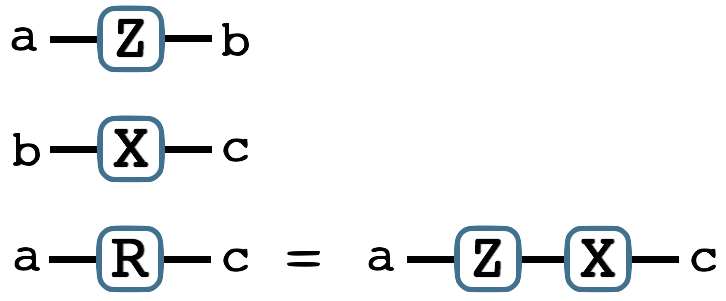
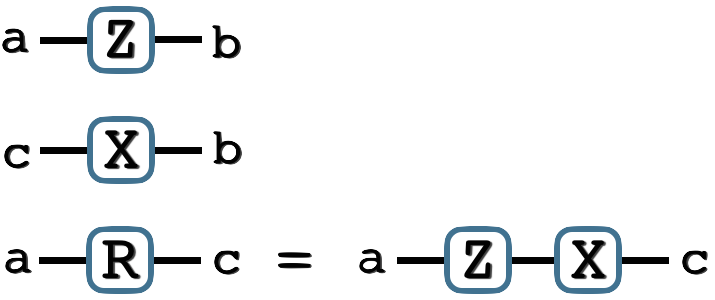
Updated example on front page to show generality of * operator.

diff --git a/index.html b/index.html
@@ -39,13 +39,13 @@
 <div class="full">
 
     <div id="download" class="rounded">
-        <h4>Download latest <br/> version <a href="https://github.com/ITensor/library/tree/v0.1.1" target="_blank">v0.1.1</a> 
-        (<a href="docs.cgi?page=changelog#v0.1.1">changelog</a>)</h4>
+        <h4>Download latest <br/> version <a href="https://github.com/ITensor/ITensor/tree/v0.2.2" target="_blank">v0.2.2</a> 
+        (<a href="docs.cgi?page=changelog#v0.2.2">changelog</a>)</h4>
         <ul>
-        <li><a href="https://github.com/ITensor/library/tarball/v0.1.1">tar.gz</a></br>
-        <li><a href="https://github.com/ITensor/library/zipball/v0.1.1">zip</a></br>
+        <li><a href="https://github.com/ITensor/ITensor/tarball/v0.2.2">tar.gz</a></br>
+        <li><a href="https://github.com/ITensor/ITensor/zipball/v0.2.2">zip</a></br>
         </ul>
-        Or track our latest<br/> code via <a target="_blank" href="https://github.com/ITensor/library">github</a>
+        Or track our latest<br/> code via <a target="_blank" href="https://github.com/ITensor/ITensor">github</a>
     </div>
 
     <p>
@@ -81,7 +81,7 @@
 <div class="full section rounded"> <h2>Code Samples</h2> </div>
 
 <div class="full screenshot">
-    <h3>Perform a DMRG Calculation</h3>
+    <h2>Perform a DMRG Calculation</h2>
     <ul>
     <li> SpinOne model(100); //define Hilbert space of 100 spin-lattice sites</li>
     <li> MPO H = Heisenberg(model); //pre-defined Hamiltonian; easy to write your own</li>
@@ -97,16 +97,19 @@
 
 <div class="full screenshot">
     <img src="MatrixDiagram.png" width="400px" style="float: right; margin-top:55px;"/>
-    <h3>Multiply Two ITensors</h3>
+    <h2>Multiply Two ITensors</h2>
     <ul>
     <li>Index a("a",2), b("b",2), c("c",2); </li>
-    <li>ITensor Z(a,b), X(b,c); </li>
+    <li>ITensor Z(a,b), X(c,b); </li>
     <li>commaInit(Z,a,b) &lt;&lt; 1, 0,
     </br>&nbsp;&nbsp;&nbsp;&nbsp;&nbsp;&nbsp;&nbsp;&nbsp;&nbsp;&nbsp;&nbsp;&nbsp;&nbsp;&nbsp;&nbsp;&nbsp;&nbsp;&nbsp;&nbsp;
     0,-1;</li>
     <li>commaInit(X,b,c) &lt;&lt; 0, 1,
     </br>&nbsp;&nbsp;&nbsp;&nbsp;&nbsp;&nbsp;&nbsp;&nbsp;&nbsp;&nbsp;&nbsp;&nbsp;&nbsp;&nbsp;&nbsp;&nbsp;&nbsp;&nbsp;&nbsp;
     1, 0;</li>
+    <li>//'*' operator finds and contracts </li>
+    <li>//common index 'b' regardless </li>
+    <li>//of index order:</li>
     <li>ITensor R = Z * X; </li>
     <li>Print( R(a(1),c(2)) );</li>
     <li> &nbsp; //Prints: R(a(1),c(2)) = 1</li>
